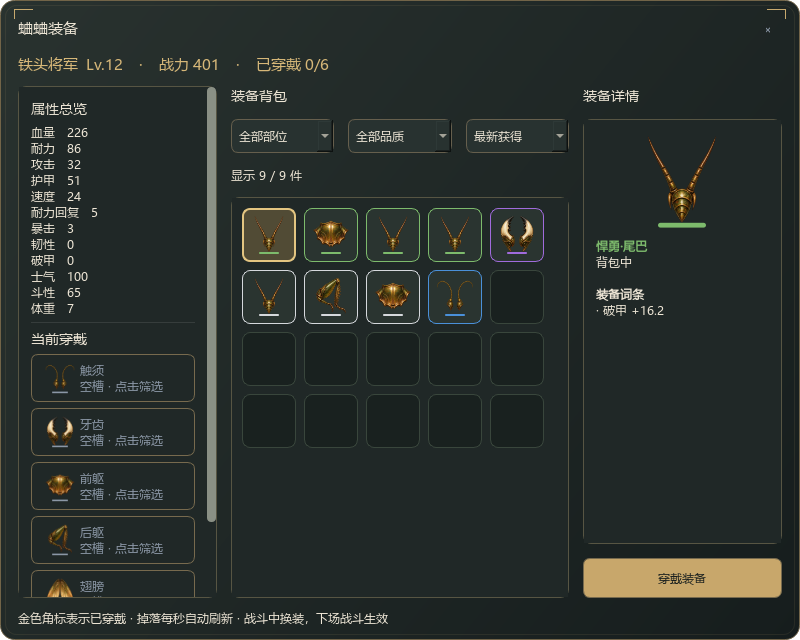
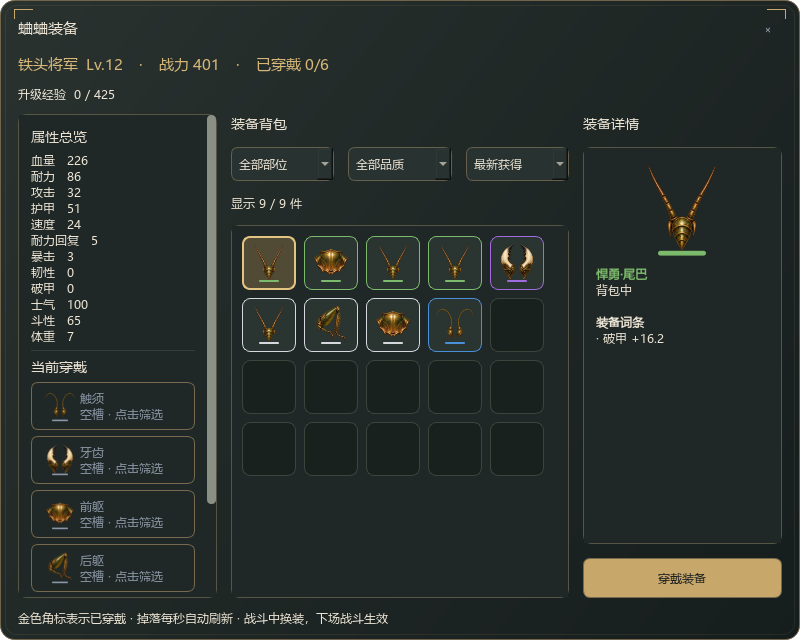
v0.6.6: continue dungeon difficulty automatically and simplify idle XP display

diff --git a/main.py b/main.py
@@ -340,7 +340,7 @@ class Pet(QWidget):
     # ---------- 桌面副本 ----------
 
     def _on_desktop_diff_clear(self, res: dict) -> None:
-        """桌面副本通关：庆祝演出 → 自动撤回挂机模式。"""
+        """桌面副本通关：庆祝演出后继续下一难度，全部完成则回挂机。"""
         from PySide6.QtCore import QTimer
         stage = self._stage
         if stage is None:
@@ -361,14 +361,22 @@ class Pet(QWidget):
         stage._float("副本通关！", 0, "#FAC775", -80)
         stage._float("首通！" if first else "通关", 0, "#FAC775", -56)
         if unlock_txt:
-            stage._float(f"已解锁「{unlock_txt}」", 0, "#97C459", -34)
+            stage._float(f"即将挑战「{unlock_txt}」", 0, "#97C459", -34)
         stage._log(f"「{stage.drun.diff_name()}」副本通关！"
                    + ("（首通）" if first else ""))
-        # 庆祝 4.5 秒后自动撤回挂机模式
-        QTimer.singleShot(4500, lambda: self._delayed_exit_battle(stage))
+        # 庆祝和掉落展示结束后自动衔接下一难度
+        QTimer.singleShot(5000, lambda: self._delayed_exit_battle(stage))
 
     def _delayed_exit_battle(self, completed_stage) -> None:
-        if self._stage is completed_stage and completed_stage.dungeon_result is not None:
+        if (getattr(self, '_stopped', False) or self._stage is not completed_stage
+                or completed_stage.dungeon_result is None):
+            return
+        order = self.db.data.get('_副本难度顺序', [])
+        did = completed_stage.drun.diff_id
+        idx = order.index(did) if did in order else -1
+        if 0 <= idx < len(order) - 1:
+            self.begin_desktop_battle(diff_id=order[idx + 1])
+        else:
             self.end_desktop_battle()
 
     def begin_desktop_battle(self, diff_id: str | None = None,
@@ -617,10 +625,11 @@ class Pet(QWidget):
         p.drawRoundedRect(QRectF(x + w / 2 - cap_w / 2, y + 12 * f, cap_w, cap_h),
                           9.5 * f, 9.5 * f)
 
-        font = QFont("Microsoft YaHei", max(8, min(14, int(9 * f))))
+        font = QFont("Microsoft YaHei")
+        font.setPixelSize(max(9, min(20, int(12 * f))))
         font.setWeight(QFont.Weight.DemiBold)
         p.setFont(font)
-        label = f"Lv.{self.level}  {self.xp} / {need}"
+        label = f"Lv.{self.level}"
         p.setPen(QPen(QColor(255, 255, 255, 230), 1.0))
         p.drawText(QRectF(x + w / 2 - cap_w / 2, y + 12 * f, cap_w, cap_h),
                    Qt.AlignmentFlag.AlignCenter, label)

diff --git a/gameplay_checklist.py b/gameplay_checklist.py
@@ -24,6 +24,49 @@ from test_support import isolated_game_data
 
 
 class GameplayTests(unittest.TestCase):
+    def test_desktop_clear_auto_enters_next_difficulty_and_stops_at_last(self):
+        self.pet.begin_desktop_battle('d01')
+        stage = self.pet._stage
+        self.ready(stage)
+        stage.drun.floor = stage.drun.floors
+        stage.drun.eidx = stage.drun.n_enemies - 1
+        with patch('main.QTimer.singleShot') as timer:
+            self.kill(stage, 1)
+            stage._dungeon_advance()
+            callback = timer.call_args.args[1]
+        callback()
+        self.assertEqual(self.pet._stage.drun.diff_id, 'd02')
+        self.assertEqual(self.pet._stage.drun.floor, 1)
+        next_stage = self.pet._stage
+        callback()
+        self.assertIs(self.pet._stage, next_stage)
+        self.pet.begin_desktop_battle(self.db.data['_副本难度顺序'][-1])
+        last = self.pet._stage
+        last.dungeon_result = {'result': 'diff_clear'}
+        self.pet._delayed_exit_battle(last)
+        self.assertIsNone(self.pet._stage)
+
+    def test_idle_level_only_and_equipment_live_experience(self):
+        from unittest.mock import MagicMock
+        from PySide6.QtGui import QFontMetricsF
+        self.pet.level = 80
+        self.pet.xp = 123
+        for zoom in (.6, 1., 2.):
+            painter = MagicMock()
+            self.pet._draw_bar(painter, zoom)
+            rect, _, label = painter.drawText.call_args.args
+            font = painter.setFont.call_args.args[0]
+            metrics = QFontMetricsF(font)
+            self.assertEqual(label, 'Lv.80')
+            self.assertLessEqual(metrics.horizontalAdvance(label), rect.width())
+            self.assertLessEqual(metrics.height(), rect.height())
+        self.pet._toggle_equipment_panel()
+        panel = self.pet.equip_panel
+        self.assertIn('123 /', panel.lbl_exp.text())
+        self.pet.xp = 124
+        panel._poll_refresh()
+        self.assertIn('124 /', panel.lbl_exp.text())
+
     def test_floor_clear_message_reports_completed_and_next_floor(self):
         stage = self.stage()
         self.ready(stage)

diff --git a/equipment_ui.py b/equipment_ui.py
@@ -32,6 +32,8 @@ class EquipmentPanel(CardPanel):
         self.build_header(root)
         self.lbl_power = self._label("", accent=True)
         root.addWidget(self.lbl_power)
+        self.lbl_exp = self._label("")
+        root.addWidget(self.lbl_exp)
         body = QHBoxLayout()
         body.setSpacing(14)
         root.addLayout(body, 1)
@@ -167,6 +169,7 @@ class EquipmentPanel(CardPanel):
             f"{species.get('名称', '蛐蛐')}  Lv.{self.pet.level}    ·    战力 {fmt_num(round(self.db.power(eff)))}"
             f"    ·    已穿戴 {len(self.model.worn_items())}/{len(self.db.data.get('_装备部位顺序', []))}"
             + ('    ·    下场战斗生效' if getattr(self.pet, '_stage', None) else ''))
+        self.lbl_exp.setText(f"升级经验  {getattr(self.pet, 'xp', 0)} / {self.db.exp_need(self.pet.level)}")
         definitions = self.db.data.get('属性定义', {})
         self.lbl_stats.setText('\n'.join(
             f"{conf.get('属性名', attr)}   {fmt_num(eff.get(attr, 0))}"

diff --git a/equipment_viewmodel.py b/equipment_viewmodel.py
@@ -28,7 +28,7 @@ class EquipmentViewModel:
 
     def reload(self):
         inventory = equipment.load_inventory()
-        pet_state = (self.pet.species_id, self.pet.level,
+        pet_state = (self.pet.species_id, self.pet.level, getattr(self.pet, "xp", 0),
                      tuple(self.pet.talents), bool(getattr(self.pet, "_stage", None)))
         snapshot = (inventory, pet_state)
         changed = snapshot != self._snapshot

diff --git a/docs/CODE_AUDIT.md b/docs/CODE_AUDIT.md
@@ -31,11 +31,11 @@
 | 检查 | 数量 |
 |---|---:|
 | 战斗公式、150 场随机战、十难度模拟、竞技场和复活 | 23 |
-| 实际 Pet/BattleStage 玩法与持久化回归 | 29 |
+| 实际 Pet/BattleStage 玩法与持久化回归 | 31 |
 | 品种保存及重启 | 4 |
 | 装备 UI、替换、筛选、格子池、配置扩展 | 6 |
 | 六品种渲染、KO、触须根部、图集、装备资源 | 7 |
-| 合计 | 69 |
+| 合计 | 71 |
 
 同时对根目录全部 Python 文件做语法检查。玩法测试包括实际引擎桌面连续获胜并周期渲染、战败退层满血复活、带伤退出恢复、换装下一场生效、结算中退出、最终掉落和重试。
 
@@ -78,3 +78,7 @@
 ## 补充：清层提示与掉落反馈
 
 清层返回 cleared_floor（已完成）和 floor（下一层），休整提示不再使用问号或提前声称休整完毕。装备入库成功后触发独立视觉队列：部位图标弹起、品质色光晕/环形粒子、飞入奖励卡，显示品质及已收入背包。单件动画 4.6 秒，连续掉落排队显示，位置取掉落瞬间快照，不随增援跳动。重置清空特效，不改变掉率或奖励次数。新增层数文案与视觉队列/过期/绘制回归。预览见 ui_loot_effects.png。
+
+## v0.6.6 补充
+
+通关庆祝后自动进入下一难度，末档回挂机。桌面仅显示等级与经验条，详细经验移至装备面板并随 xp 刷新。新增自动衔接、重复旧回调保护及三级缩放文字尺寸和面板刷新回归。

diff --git a/AI_HANDOVER.md b/AI_HANDOVER.md
@@ -192,3 +192,8 @@
 每次修改完成后，必须完成相关验证、整理版本说明、创建版本提交及递增的版本标签，并推送提交和该标签到 origin。不要只留下本地未提交改动。玩家存档与偏好不得随代码发布；不强制推送、不覆盖旧标签。若推送失败，明确说明阻塞原因。
 
 本次汇总发布 v0.6.5，包含装备框架、美术资源、墨金 UI、玩法与持久化修复、重置副本、进场朝向及掉落表现；69 项自动检查通过。
+
+### v0.6.6：自动连续副本与精简经验显示
+- 用户已改定通关流程：5 秒庆祝后自动进入下一难度第 1 层，最后难度才回挂机。回调必须校验原舞台身份及退出状态，避免用户撤出/重置后重开。此规则取代历史“通关自动撤回挂机”。
+- 桌面 _draw_bar 仅画经验条和 Lv 等级，字体随尺寸适配；具体升级经验在装备面板 lbl_exp 显示，ViewModel 快照包含 xp 保证实时更新。
+- 完整检查为 71 项（玩法 31 项）。

diff --git a/README.md b/README.md
@@ -123,7 +123,7 @@ QuQuBattleGame/
 
 每次修改完成并验证后，整理版本说明、提交 commit、创建递增版本 tag，并推送提交和该标签到 origin。玩家存档与偏好不随代码发布。
 
-当前版本：`v0.6.5`，详见 [版本记录](CHANGELOG.md)。
+当前版本：`v0.6.6`，详见 [版本记录](CHANGELOG.md)。
 
 ```
 git commit -m "v0.2: 属性与状态条"
@@ -147,6 +147,6 @@ git push -u origin main --tags
 
 ## 全项目回归
 
-运行 `python check_project.py`，执行语法检查及 69 项自动检查（包括十难度战斗模拟）。
+运行 `python check_project.py`，执行语法检查及 71 项自动检查（包括十难度战斗模拟）。
 自动回归使用临时存档，结果写入 `docs/validation_results.txt`。
 问题修复、模拟数据与验收边界见 [代码检查报告](docs/CODE_AUDIT.md)。

diff --git a/CHANGELOG.md b/CHANGELOG.md
@@ -1,5 +1,11 @@
 # 版本记录
 
+## v0.6.6 · 2026-09-24
+
+- 桌面副本通关后展示 5 秒庆祝与掉落，自动进入下一难度第 1 层；最后难度完成后回挂机，手动退出、重置或关闭游戏取消衔接。
+- 桌面所有缩放档位仅显示等级和经验条，避免最小尺寸裁字；装备面板新增实时升级经验数值。
+- 新增通关衔接及 60%/100%/200% 等级文字适配、面板经验刷新回归；完整检查 71 项。
+
 ## v0.6.5 · 2026-09-24
 
 - 重构装备面板：属性、穿戴、背包筛选与替换预览；复用格子组件。
